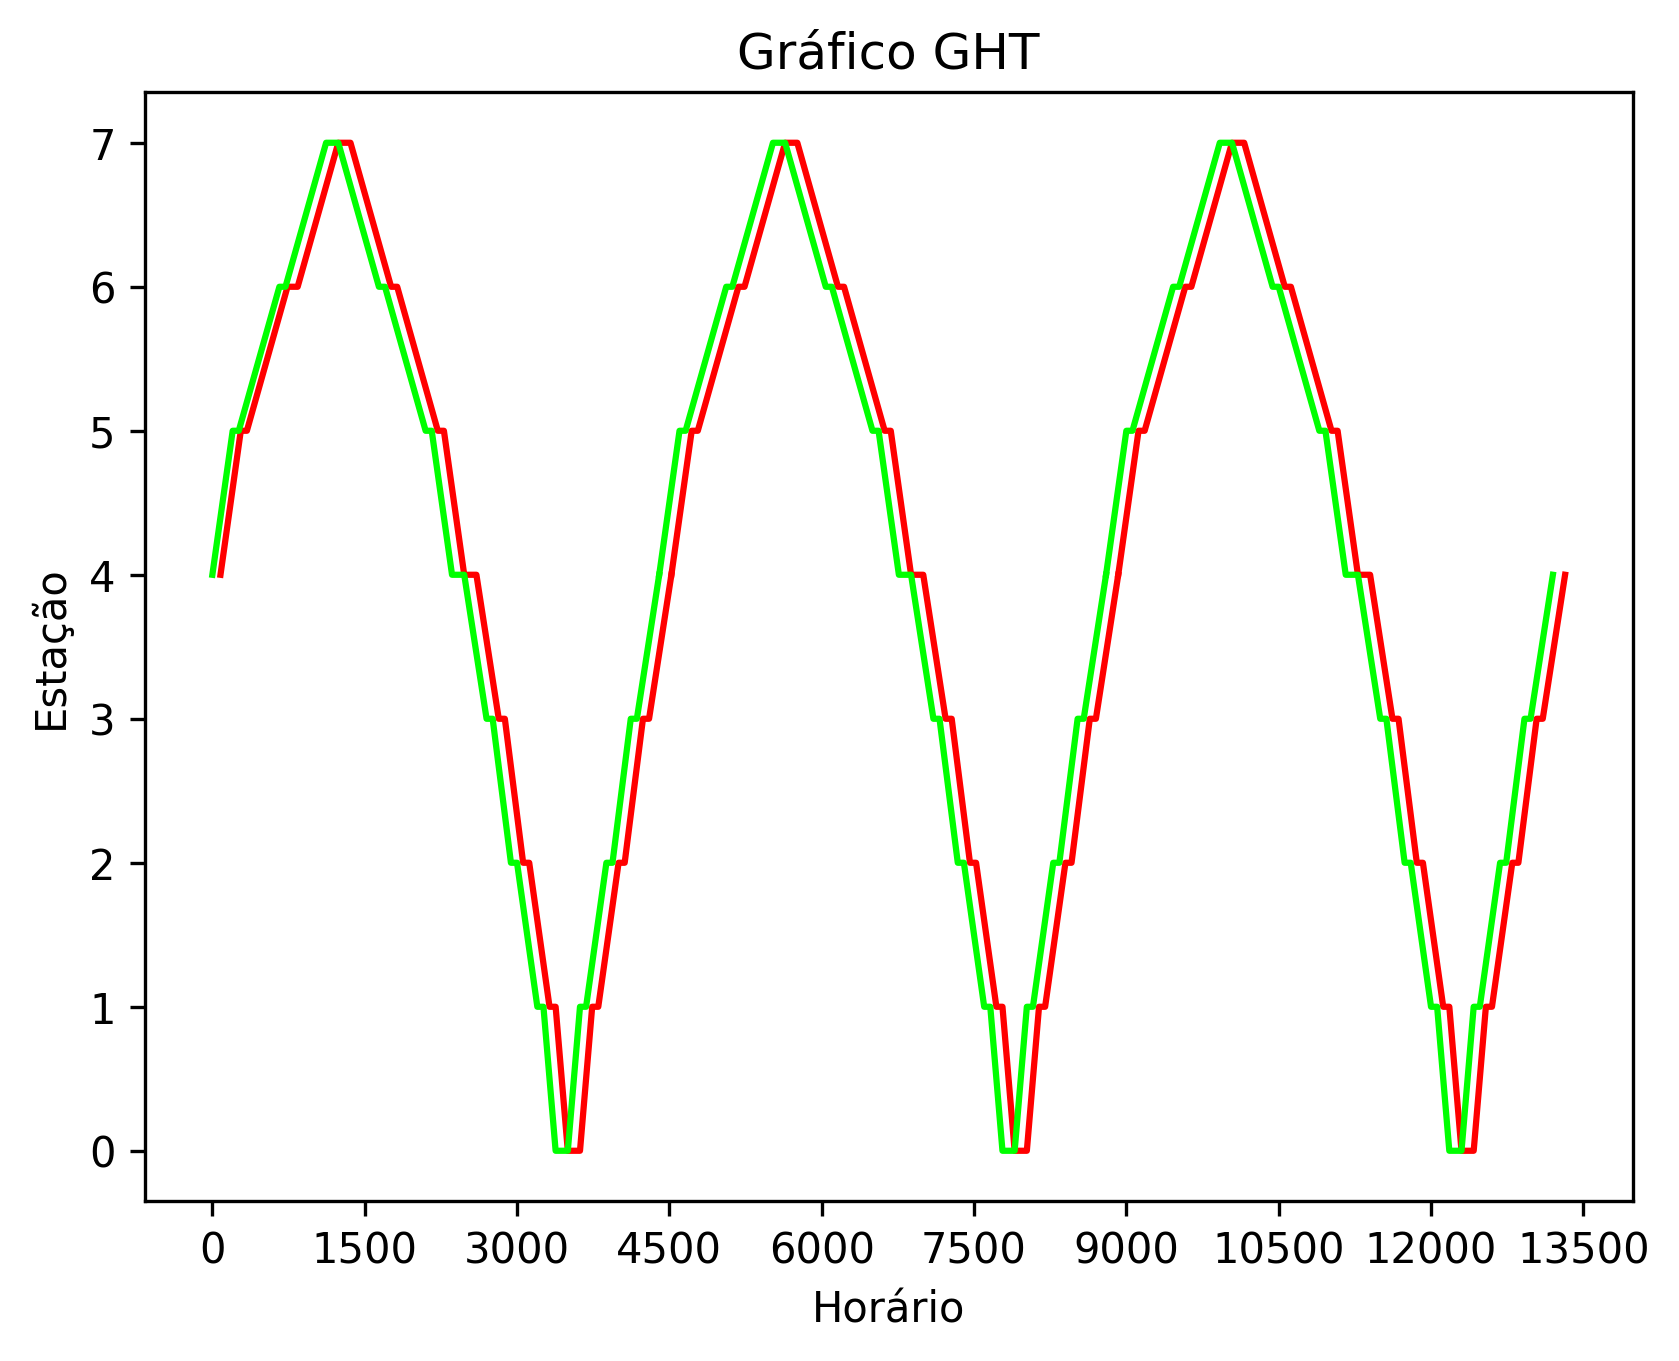
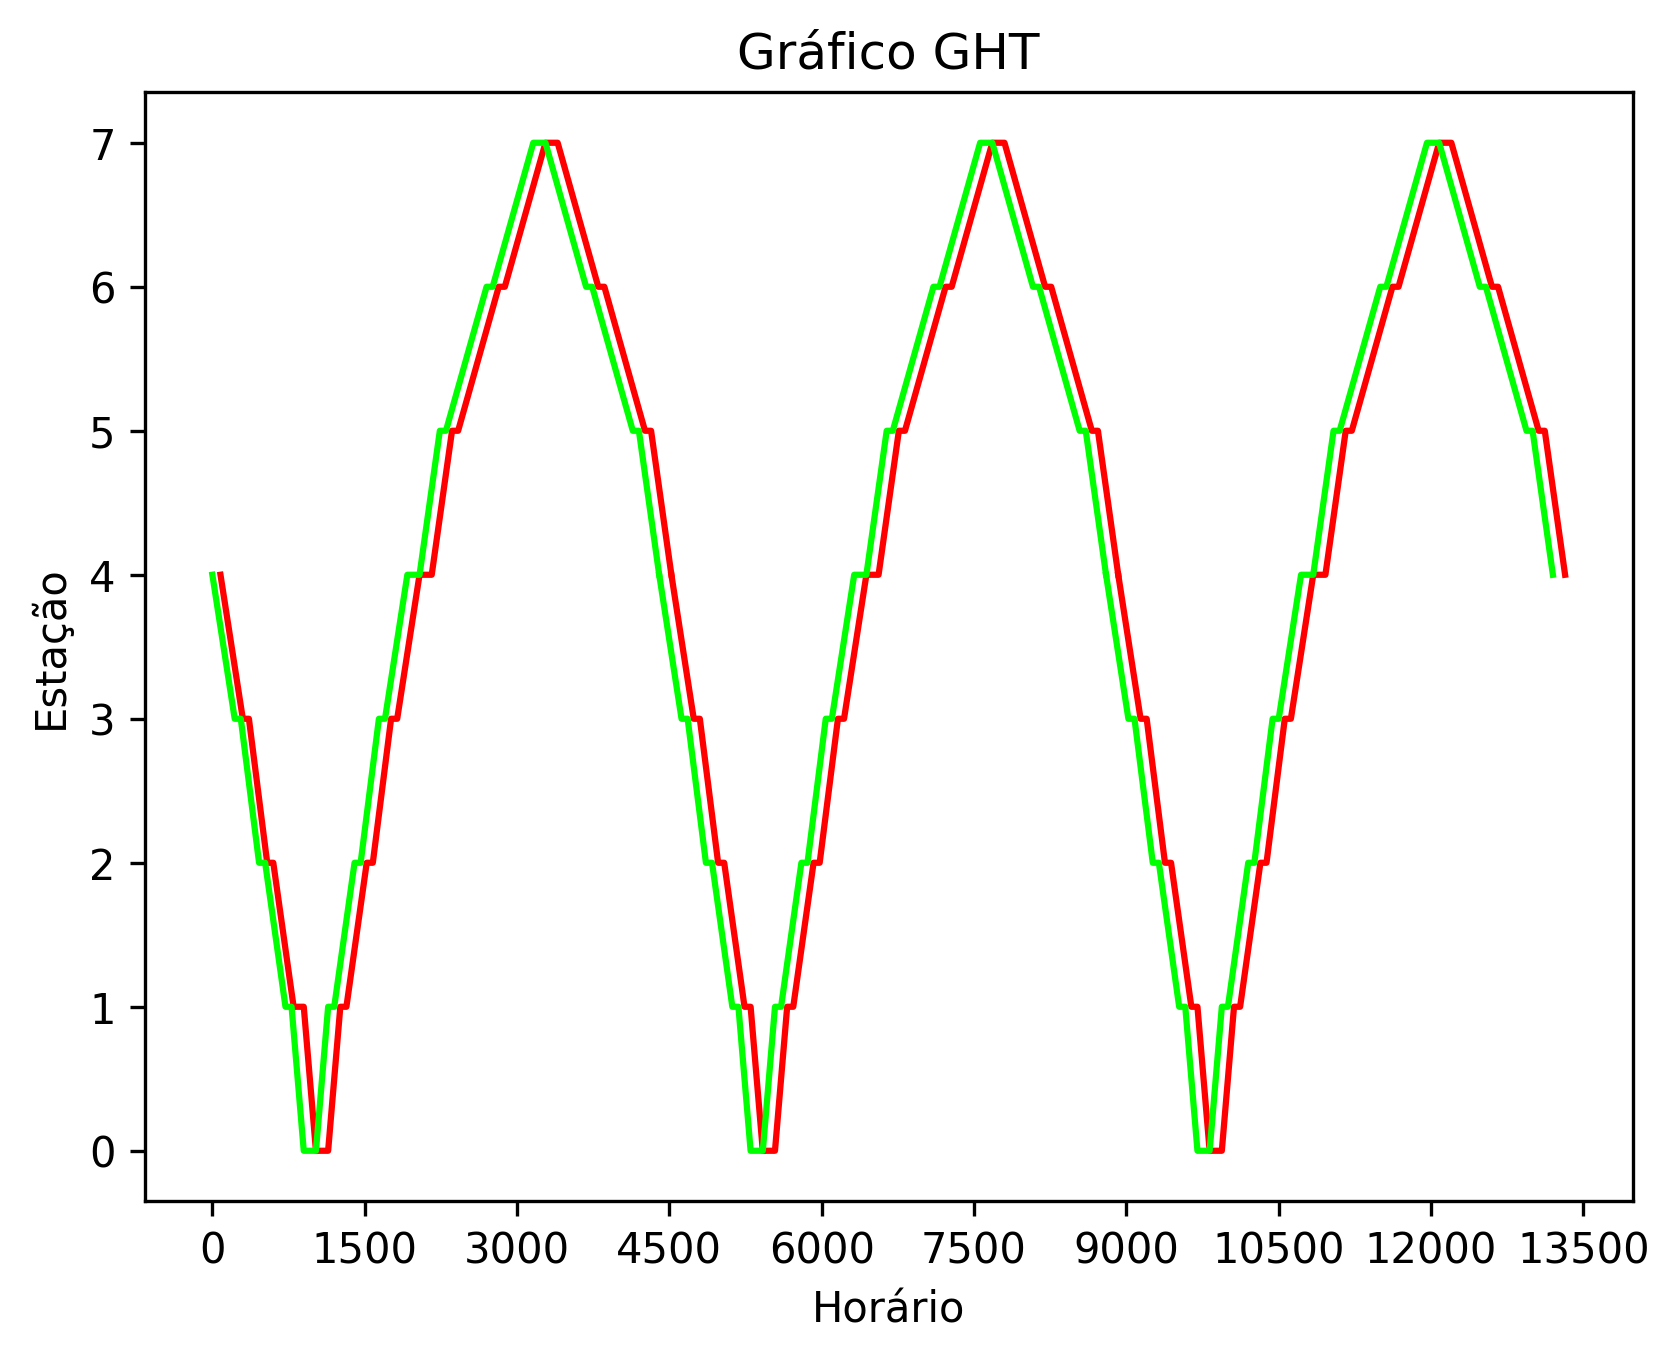
implementing manually

diff --git a/src/Combinations.cpp b/src/Combinations.cpp
@@ -20,25 +20,53 @@ Combinations::Combinations(Data &data, int t)
     nb_trains = data.get_nb_trains();                                  // calculate total number of possible combinations
     total_nb_combinations = pow(trips_combinations.size(), nb_trains);
 
-    // create threads that will generate combinations
-    vector<thread> threads;
+    // initialize threads
     nb_threads = t;
-    unsigned long long interval = total_nb_combinations / nb_threads;
+    vector <pthread_t> threads;
+    sem_init(&sem_jobs, 0, 0);          // initialize semaphore with 0
+
+    // create chunks
+    unsigned long long chunk_size = total_nb_combinations / nb_threads;
+    for (int i = 0; i < total_nb_combinations; i += chunk_size)
+    {
+        int end = std::min(i + chunk_size, total_nb_combinations);
+        mtx.lock();
+        queue_chunks.push({i, end});
+        mtx.unlock();
+        sem_post(&sem_jobs); // increment semaphore for each job
+    }
+
+    // create threads
     for (int i = 0; i < nb_threads; i++)
     {
-        unsigned long long start = i * interval;
-        unsigned long long end;
-        if (i == nb_threads-1)
-            end = total_nb_combinations;
-        else
-            end = (i + 1) * interval;
-            threads.emplace_back(&Combinations::generate_all_combinations, this, std::ref(data), start, end, i);
+        threads.emplace_back(&Combinations::worker, this, std::ref(data), i);
     }
+
     // wait for all threads to finish
     for (auto& t : threads)
     {
         t.join();
     }
+
+    // // create threads that will generate combinations
+    // vector<thread> threads;
+    // nb_threads = t;
+    // unsigned long long interval = total_nb_combinations / nb_threads;
+    // for (int i = 0; i < nb_threads; i++)
+    // {
+    //     unsigned long long start = i * interval;
+    //     unsigned long long end;
+    //     if (i == nb_threads-1)
+    //         end = total_nb_combinations;
+    //     else
+    //         end = (i + 1) * interval;
+    //         threads.emplace_back(&Combinations::generate_all_combinations, this, std::ref(data), start, end, i);
+    // }
+    // // wait for all threads to finish
+    // for (auto& t : threads)
+    // {
+    //     t.join();
+    // }
 
     // cout << endl;
     // for (int i = 0; i < all_combinations.size(); i++)
@@ -74,6 +102,25 @@ void Combinations::reset_directory(Data &data)
         for (const auto& entry : filesystem::directory_iterator(full_path)) {
             filesystem::remove_all(entry.path());
         }
+    }
+}
+
+void Combinations::worker (Data &data, int thread_id)
+{
+    while (true)
+    {
+        sem_wait(&sem_jobs);     // wait for a job
+
+        mtx.lock();
+        if (queue_chunks.empty()) { 
+            mtx.unlock();
+            break;
+        }
+        auto [start, end] = queue_chunks.front();
+        queue_chunks.pop();
+        mtx.unlock();
+
+        generate_all_combinations(data, start, end, thread_id);
     }
 }
 

diff --git a/include/Combinations.hpp b/include/Combinations.hpp
@@ -6,7 +6,9 @@
 #include <cmath>
 #include <algorithm>
 #include <set>
+#include <queue>
 #include <thread>
+#include <semaphore.h>
 #include <mutex>
 
 class Combinations
@@ -31,7 +33,11 @@ private:
     std::vector<std::vector<int>> all_combinations;
     std::vector<std::vector<int>> trips_combinations;
 
+    std::queue<std::pair<int, int>> queue_chunks;
+
     void reset_directory(Data &data);
+
+    void worker (Data &data, int thread_id);
 
     void generate_trips_combinations(Data &data);
     void generate_all_combinations(Data &data, unsigned long long int start, unsigned long long int end, int thread_id);
@@ -41,9 +47,10 @@ private:
 
     void add_to_prohibited_set(std::vector <int> invalid_combination);
 
+    int nb_threads;
     Model best_thread;
     std::mutex mtx;
-    int nb_threads;
+    sem_t sem_jobs;
 };
 
 #endif
